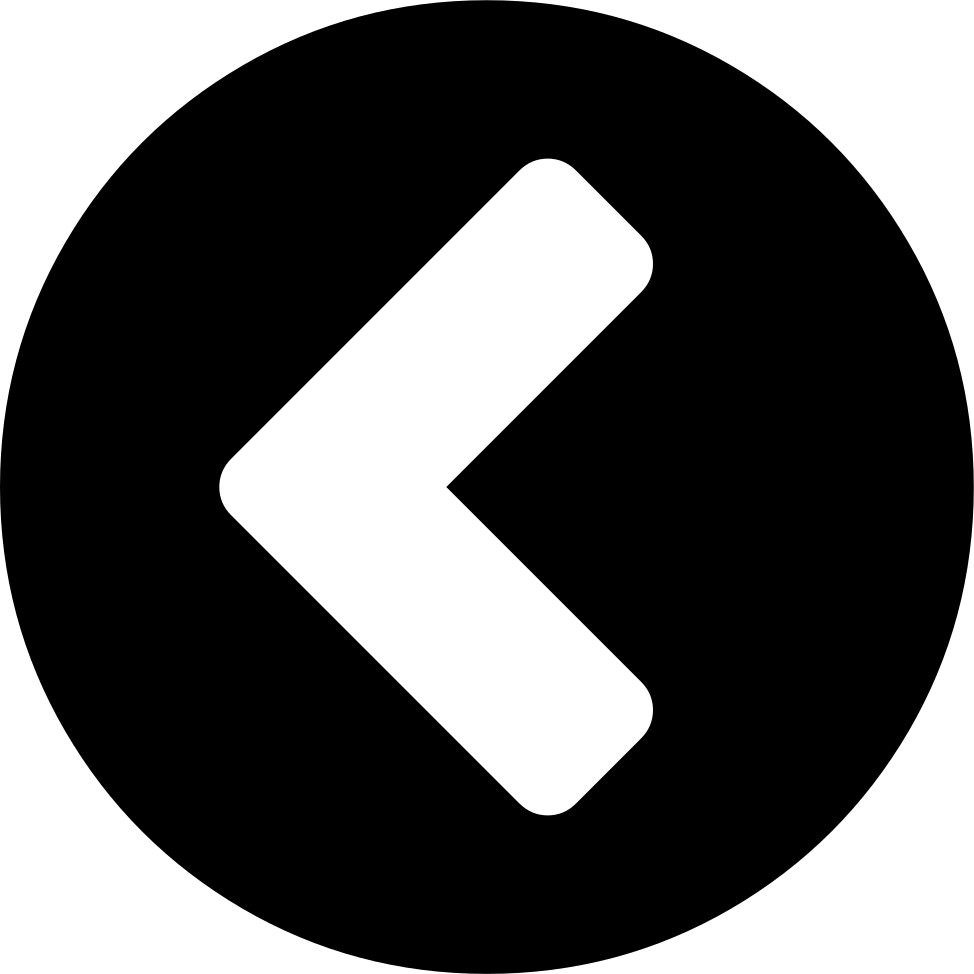
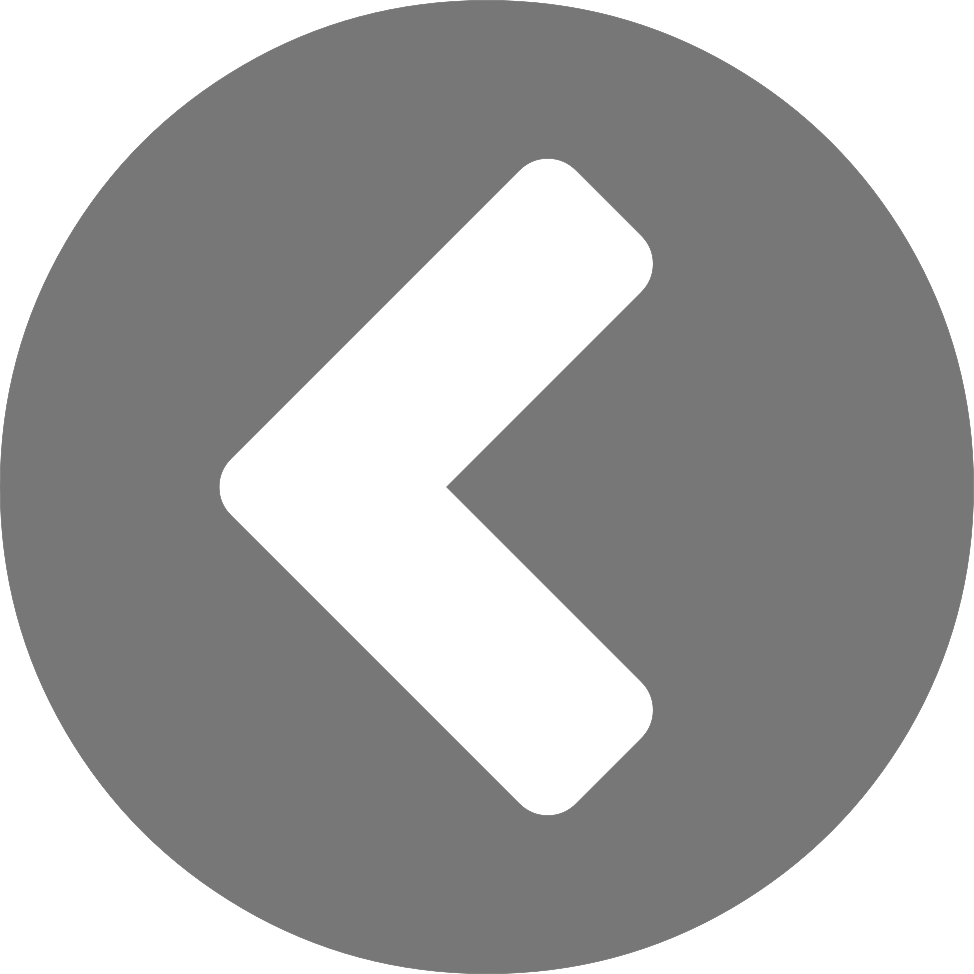
new arrows

diff --git a/frontend/src/components/CardsCarousel.scss b/frontend/src/components/CardsCarousel.scss
@@ -29,13 +29,16 @@
   width: 100px;
   height: 100px;
   margin-left: 200px;
+  opacity: 40%;
 }
+
 
 .arrow2 {
   transform: rotate(180deg);
   width: 100px;
   height: 100px;
   margin-right: 200px;
+  opacity: 40%;
 }
 
 .arrow2:hover {
@@ -43,6 +46,7 @@
   scroll-margin-right: 200px;
   scale: (1.2);
   cursor: pointer;
+  opacity: 90%;
 }
 
 .arrow1:hover {
@@ -50,6 +54,7 @@
   scroll-margin-left: 200px;
   scale: (1.2);
   cursor: pointer;
+  opacity: 90%;
 }
 .carouselBox {
   display: flex;
